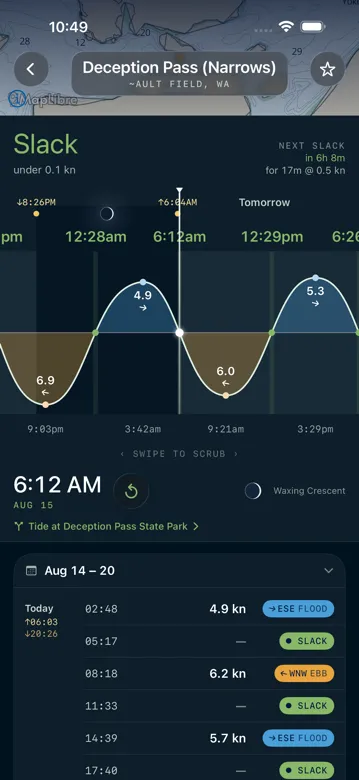
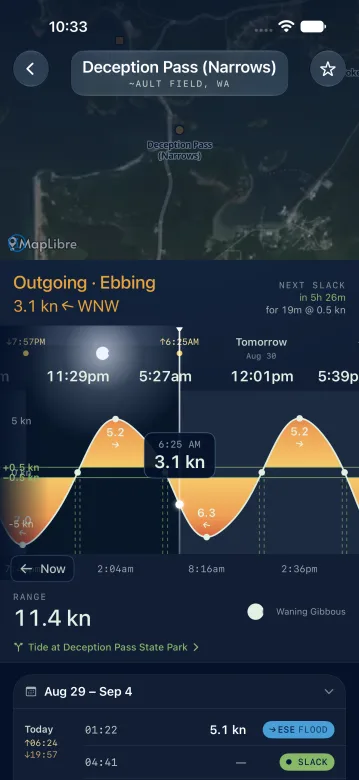
shots: refresh the current view
The one screenshot held back from the refresh, so the published page
still showed a capture the rest no longer matched.

Copy follows the image: it is ebbing at 3.1 kn rather than slack, and
the new capture shows the slack window's duration — 19 minutes at under
0.5 kn — which is the number the section is actually arguing about.

diff --git a/src/routes/index.tsx b/src/routes/index.tsx
@@ -168,8 +168,8 @@ function Home() {
           <div className="max-w-[260px] sm:w-[260px]">
             <Shot
               src="/shots/m2-current-scrubbed.webp"
-              alt="Deception Pass Narrows in the app: slack under 0.1 knots, next slack in 6 hours 8 minutes, and a scrubable current curve showing 4.9 and 5.3 knot floods against 6.9 and 6.0 knot ebbs."
-              caption="Deception Pass (Narrows). Slack now, next slack in 6h 8m, and what it does in between."
+              alt="Deception Pass Narrows in the app: ebbing at 3.1 knots to the west-north-west, next slack in 5 hours 26 minutes and lasting only 19 minutes, above a scrubbable current curve showing 5.2 knot floods against a 6.3 knot ebb with the slack band drawn across it."
+              caption="Deception Pass (Narrows), ebbing at 3.1 kn. Next slack is in 5h 26m and lasts 19 minutes — which is the number that decides whether you go."
             />
           </div>
         </div>
